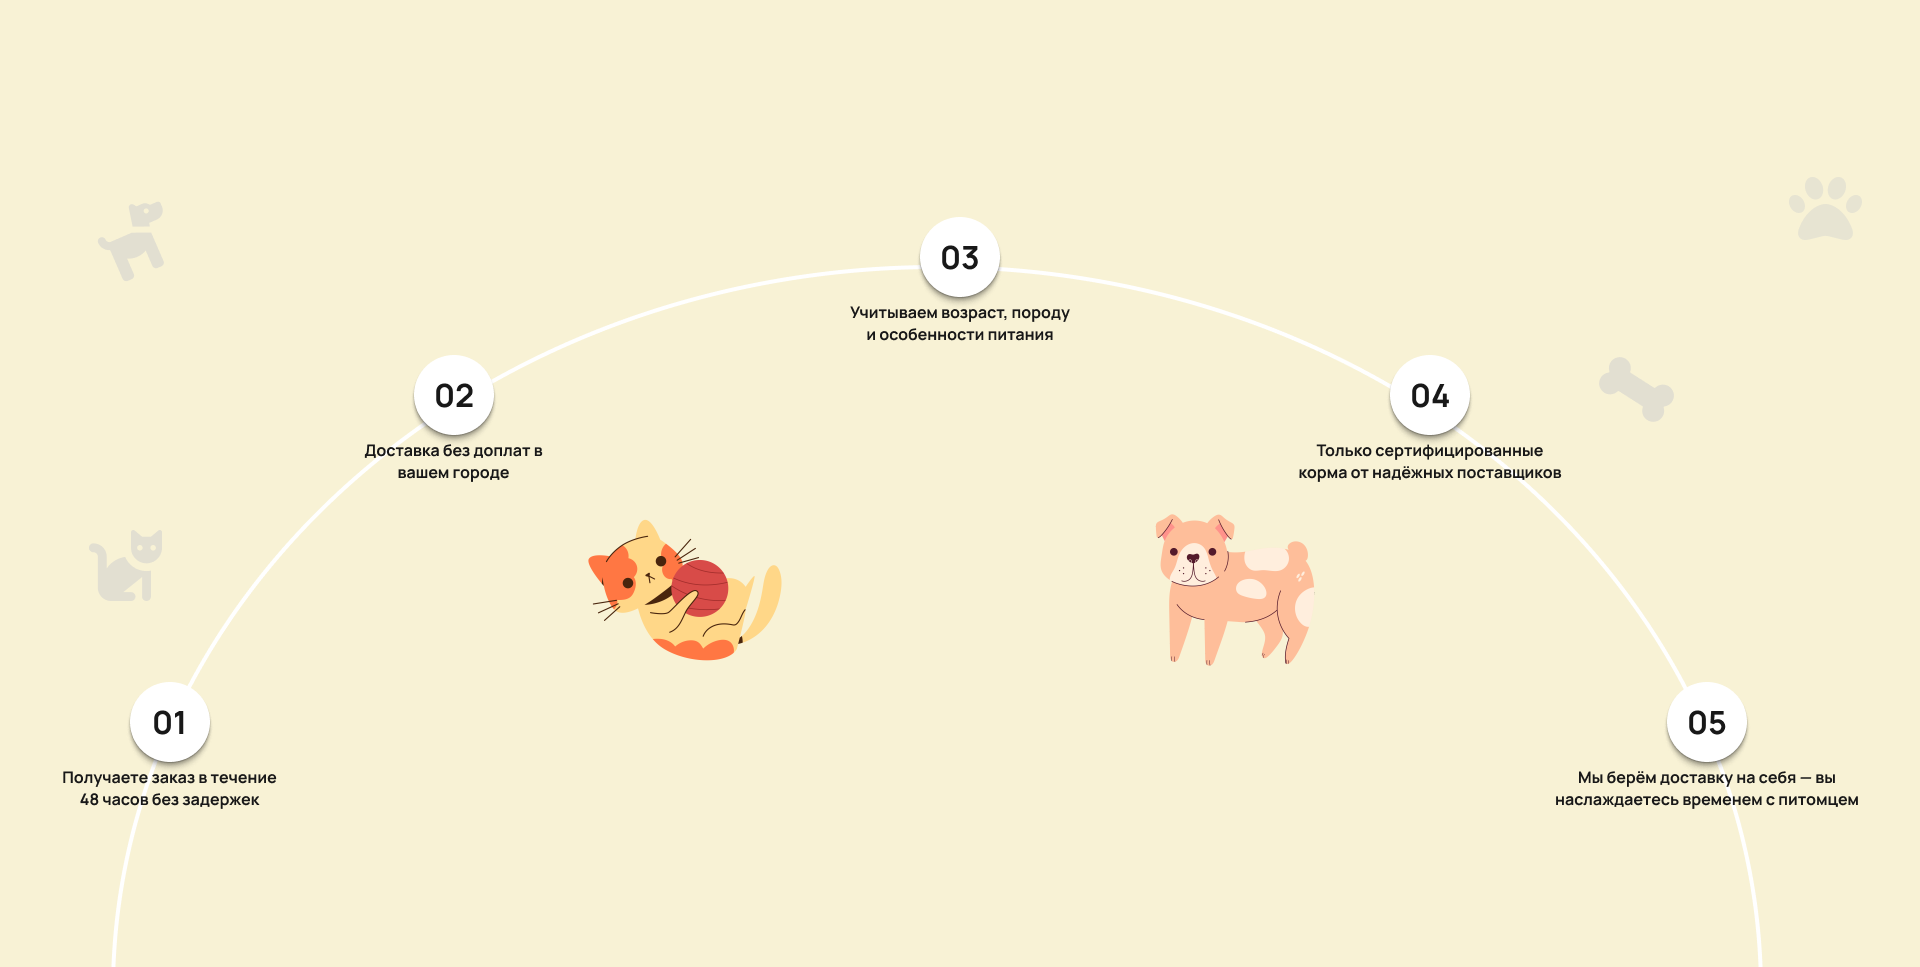
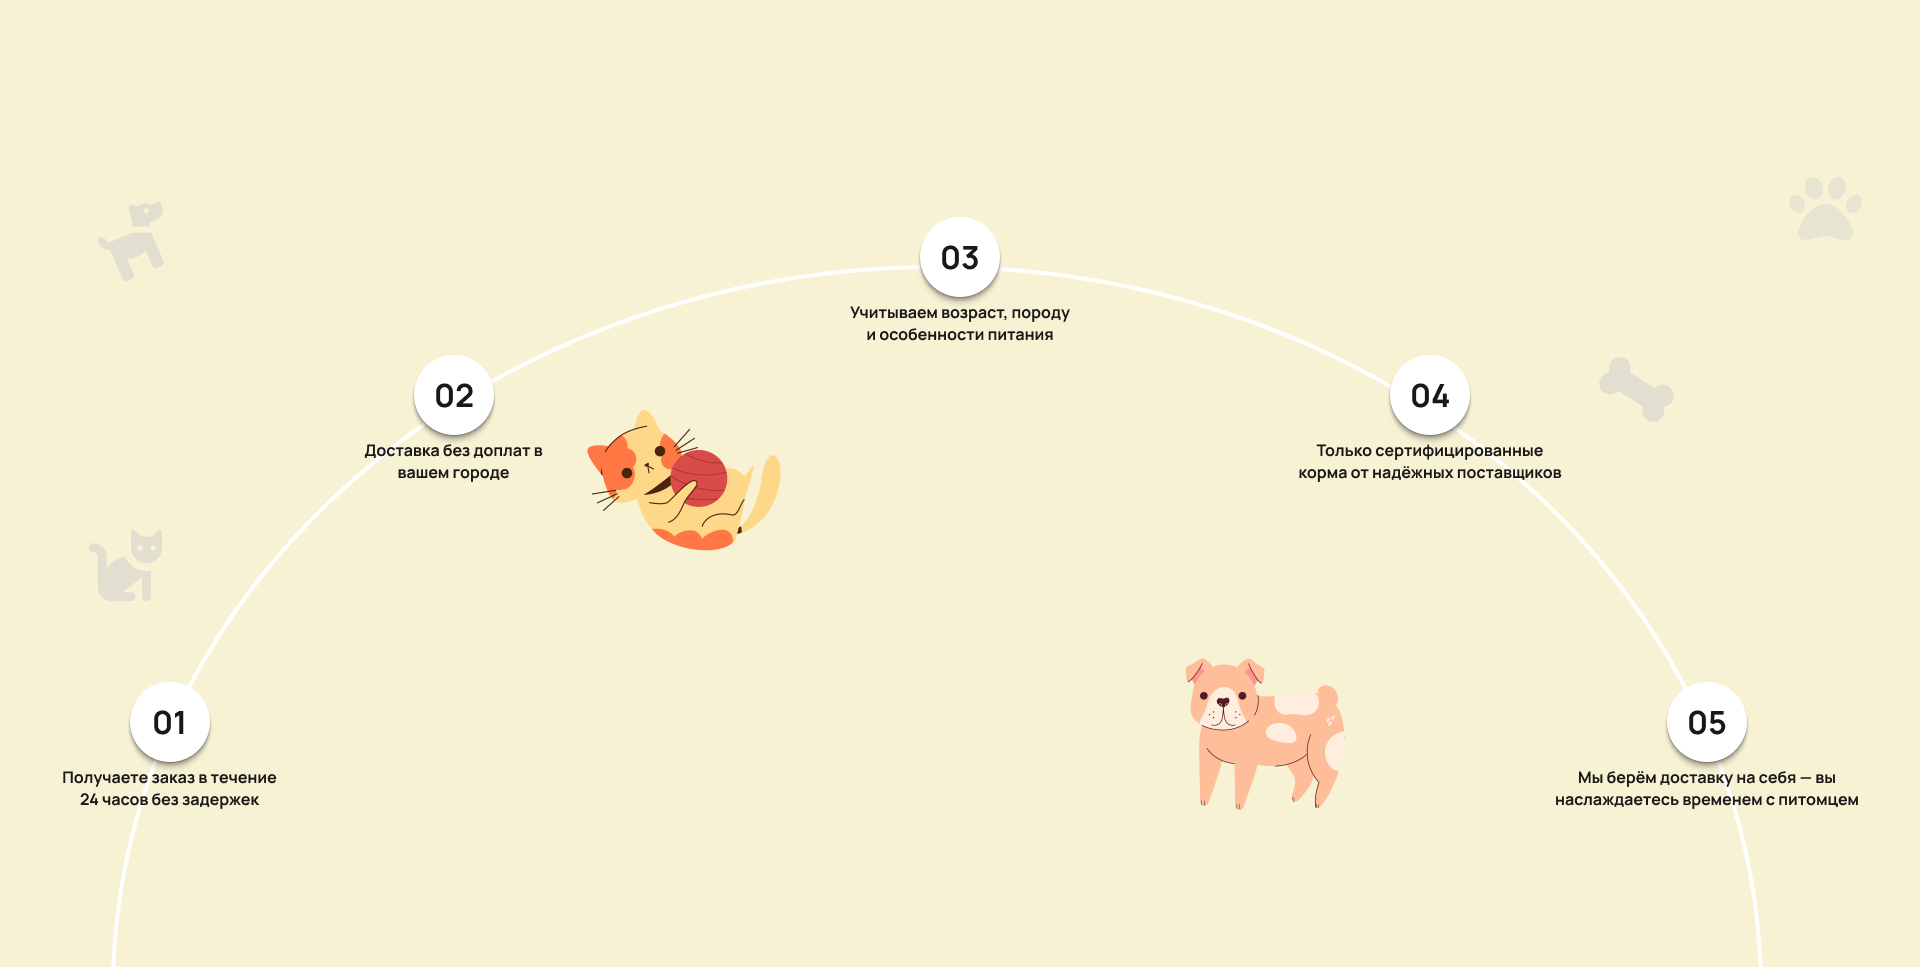
feat

Changed region(s): [[0.5938, 0.5274, 0.7188, 0.8376], [0.2812, 0.4343, 0.4062, 0.6825], [0.0312, 0.8066, 0.125, 0.8376]]

diff --git a/frontend/components/Header.vue b/frontend/components/Header.vue
@@ -2,6 +2,7 @@
     const { currentlyMobile } = mobileState();
 
     const isScrolled = ref(false);
+    const isMenuOpen = ref(false);
 
     const handleScroll = () => {
         isScrolled.value = window.scrollY > 1
@@ -15,6 +16,10 @@
     onUnmounted(() => {
         window.removeEventListener('scroll', handleScroll)
     })
+
+    watch(isMenuOpen, (val) => {
+        document.body.style.overflow = val ? 'hidden' : '';
+    });
 </script>
 
 <template>
@@ -29,7 +34,7 @@
                 v-if="!currentlyMobile">
                     <ul>
                         <li><a href="/assortment">Ассортимент</a></li>
-                        <li><a href="/mission">Доставка</a></li>
+                        <li><a href="/mission">Наша миссия</a></li>
                         <li><a href="/#reviews">Отзывы</a></li>
                         <li><a href="/about">О нас</a></li>
                         <li><a href="/news">Новости</a></li>
@@ -55,7 +60,8 @@
                     </Button>
                 </div>
                 <div class="header__burger-button"
-                v-if="currentlyMobile">
+                v-if="currentlyMobile"
+                @click="isMenuOpen = true">
                     <svg width="41" height="61" viewBox="0 0 41 61" fill="none" xmlns="http://www.w3.org/2000/svg">
                         <path d="M35.7898 16.3745C34.8893 16.3746 33.8713 16.9326 33.4272 17.7255C33.1923 18.1452 32.8135 18.5581 32.3368 18.5581L8.66332 18.557C8.18655 18.557 7.8078 18.1442 7.57285 17.7244C7.12882 16.9315 6.11078 16.3735 5.21029 16.3735C4.01833 16.3735 3.05212 17.3511 3.05213 18.557C3.05215 19.7629 4.01839 20.7405 5.21028 20.7405C4.01839 20.7405 3.05211 21.6077 3.05213 22.8529C3.05214 24.0981 4.01838 25.1075 5.21028 25.1076C6.11078 25.1076 7.12885 24.5313 7.57285 23.7126C7.80779 23.2792 8.18654 22.8529 8.66332 22.8529L32.3368 22.854C32.8135 22.854 33.1923 23.2803 33.4272 23.7137C33.8712 24.5324 34.8893 25.1087 35.7898 25.1087C36.9817 25.1086 37.9479 24.0992 37.9479 22.854C37.948 21.6088 36.9817 20.7416 35.7898 20.7416C36.9817 20.7416 37.9479 19.764 37.9479 18.5581C37.948 17.3522 36.9817 16.3746 35.7898 16.3745Z" fill="white"/>
                         <path d="M35.7897 26.1236C34.8892 26.1236 33.8712 26.6817 33.4272 27.4745C33.1922 27.8943 32.8135 28.3071 32.3367 28.3071L8.66328 28.3061C8.18651 28.3061 7.80776 27.8932 7.57281 27.4735C7.12878 26.6806 6.11074 26.1225 5.21025 26.1225C4.01829 26.1226 3.05208 27.1002 3.05209 28.3061C3.05211 29.512 4.01835 30.4896 5.21024 30.4896C4.01835 30.4896 3.05207 31.4672 3.05209 32.6731C3.05211 33.879 4.01834 34.8566 5.21024 34.8567C6.11074 34.8567 7.12881 34.2986 7.57281 33.5058C7.80775 33.086 8.1865 32.6731 8.66328 32.6731L32.3367 32.6742C32.8135 32.6742 33.1923 33.0871 33.4272 33.5068C33.8712 34.2997 34.8893 34.8577 35.7898 34.8577C36.9817 34.8577 37.9479 33.8801 37.9479 32.6742C37.9479 31.4683 36.9816 30.4906 35.7898 30.4907C36.9816 30.4906 37.9479 29.513 37.9479 28.3071C37.9479 27.1012 36.9817 26.1236 35.7897 26.1236Z" fill="white"/>
@@ -64,7 +70,30 @@
                 </div>
             </div>
         </div>
+
     </header>
+
+    <Teleport to="body">
+        <Transition name="mobile-menu">
+            <div class="mobile-menu" v-if="isMenuOpen">
+                <button class="mobile-menu__close" @click="isMenuOpen = false">
+                    <svg width="29" height="29" viewBox="0 0 29 29" fill="none" xmlns="http://www.w3.org/2000/svg">
+                        <path d="M22.0077 0.793798C21.3857 1.4232 21.0727 2.52025 21.3203 3.37832C21.4515 3.83251 21.4785 4.38244 21.1492 4.71567L4.79788 21.2612C4.46859 21.5944 3.91838 21.5739 3.46266 21.4482C2.60171 21.2108 1.50845 21.5368 0.886499 22.1662C0.0632841 22.9993 0.0793499 24.35 0.922384 25.183C1.76543 26.0161 3.1162 26.0161 3.93942 25.183C3.1162 26.0161 3.13226 27.3668 3.9753 28.1999C4.81834 29.0329 6.16911 29.0329 6.99233 28.1999C7.6143 27.5705 7.92731 26.4734 7.67971 25.6154C7.54855 25.1612 7.52151 24.6112 7.85081 24.278L24.2021 7.7325C24.5314 7.39926 25.0817 7.41975 25.5374 7.54551C26.3983 7.78288 27.4916 7.45685 28.1135 6.82744C28.9367 5.99436 28.9206 4.64369 28.0776 3.81062C27.2346 2.97755 25.8838 2.97755 25.0606 3.81062C25.8838 2.97755 25.8677 1.62687 25.0247 0.793798C24.1817 -0.0392682 22.8309 -0.0392682 22.0077 0.793798Z" fill="white"/>
+                        <path d="M28.2001 22.0077C27.5707 21.3857 26.4736 21.0727 25.6156 21.3203C25.1614 21.4515 24.6115 21.4785 24.2782 21.1492L7.73272 4.79793C7.39949 4.46864 7.41998 3.91843 7.54574 3.46271C7.78311 2.60176 7.45707 1.5085 6.82769 0.88655C5.99456 0.0633376 4.64392 0.0794065 3.81087 0.922442C2.97782 1.76549 2.97782 3.11626 3.81087 3.93948C2.97782 3.11626 1.62709 3.13232 0.79404 3.97537C-0.0390098 4.81841 -0.0390098 6.16918 0.79404 6.9924C1.42342 7.61436 2.52052 7.92737 3.37855 7.67977C3.83272 7.5486 4.38266 7.52157 4.7159 7.85086L21.2614 24.2022C21.5946 24.5315 21.5741 25.0817 21.4484 25.5374C21.211 26.3983 21.5371 27.4916 22.1665 28.1135C22.9995 28.9367 24.3502 28.9207 25.1833 28.0776C26.0163 27.2346 26.0163 25.8838 25.1833 25.0606C26.0163 25.8838 27.367 25.8677 28.2001 25.0247C29.0332 24.1817 29.0332 22.8309 28.2001 22.0077Z" fill="white"/>
+                    </svg>
+                </button>
+                <nav class="mobile-menu__nav">
+                    <ul>
+                        <li><a href="/assortment" @click="isMenuOpen = false">Ассортимент</a></li>
+                        <li><a href="/delivery" @click="isMenuOpen = false">Доставка</a></li>
+                        <li><a href="/#reviews" @click="isMenuOpen = false">Отзывы</a></li>
+                        <li><a href="/about" @click="isMenuOpen = false">О нас</a></li>
+                        <li><a href="/news" @click="isMenuOpen = false">Новости</a></li>
+                    </ul>
+                </nav>
+            </div>
+        </Transition>
+    </Teleport>
 </template>
 
 <style lang="scss">
@@ -140,10 +169,69 @@
                 max-height: 5.0833rem;
                 aspect-ratio: 3.4167 / 5.0833;
                 height: 100%;
+                cursor: pointer;
                 svg {
                     @include wh-100;
                 }
             }
         }
+    }
+
+    .mobile-menu {
+        position: fixed;
+        inset: 0;
+        z-index: 100;
+        background-color: #F5F0C4;
+        display: flex;
+        flex-direction: column;
+        align-items: center;
+        padding-top: 6rem;
+
+        &__close {
+            position: absolute;
+            top: 1.5rem;
+            right: 1.25rem;
+            background: none;
+            border: none;
+            cursor: pointer;
+            padding: 0.5rem;
+            svg {
+                width: 1.8125rem;
+                height: 1.8125rem;
+                path {
+                    fill: #1E1E1E;
+                }
+            }
+        }
+
+        &__nav {
+            ul {
+                list-style: none;
+                padding: 0;
+                margin: 0;
+                display: flex;
+                flex-direction: column;
+                align-items: center;
+                gap: 2rem;
+                li {
+                    a {
+                        font-size: 1.5rem;
+                        @include manrope;
+                        font-weight: 400;
+                        color: #1E1E1E;
+                        text-decoration: none;
+                    }
+                }
+            }
+        }
+    }
+
+    .mobile-menu-enter-active,
+    .mobile-menu-leave-active {
+        transition: opacity 0.3s ease;
+    }
+    .mobile-menu-enter-from,
+    .mobile-menu-leave-to {
+        opacity: 0;
     }
 </style>

diff --git a/frontend/pages/news.vue b/frontend/pages/news.vue
@@ -17,12 +17,24 @@
     <section>
         <div class="news-section">
             <div class="news-section__container">
-                <NewsCard image="/images/news/news_1.jpg"></NewsCard>
-                <NewsCard image="/images/news/news_2.jpg" tag="useful"></NewsCard>
-                <NewsCard image="/images/news/news_3.jpg" tag="top"></NewsCard>
-                <NewsCard image="/images/news/news_4.jpg" tag="useful"></NewsCard>
-                <NewsCard image="/images/news/news_5.jpg" tag="useful"></NewsCard>
-                <NewsCard image="/images/news/news_6.png" tag="top"></NewsCard>
+                <NewsCard image="/images/news/news_1.jpg"
+                title="Наши клиенты делятся впечатлениями о доставке и корме"
+                desc="Покупатели рассказали о своём опыте заказа: от быстрой доставки до качества корма, который с удовольствием едят их питомцы. В коротком интервью они поделились честным мнением, отметив удобство сервиса, свежесть продукции и заметные улучшения в самочувствии животных."></NewsCard>
+                <NewsCard image="/images/news/news_2.jpg" tag="useful"
+                title="Учёные выяснили, какая игрушка лучше всего подходит маленьким породам собак"
+                desc="Недавнее исследование показало, что небольшие собаки предпочитают мягкие и лёгкие игрушки, которые удобно носить и грызть. Эксперты отмечают, что правильно подобранная игрушка не только развлекает питомца, но и способствует развитию, снижает стресс и укрепляет здоровье зубов."></NewsCard>
+                <NewsCard image="/images/news/news_3.jpg" tag="top"
+                title="Ветеринары назвали топ-5 ошибок в кормлении питомцев"
+                desc="Специалисты выделили самые распространённые ошибки, которые могут негативно влиять на здоровье животных. Среди них — неправильный выбор корма, перекармливание и несоблюдение режима питания. Эксперты подчёркивают: сбалансированный рацион и качественный корм играют ключевую роль в самочувствии и активности питомца."></NewsCard>
+                <NewsCard image="/images/news/news_4.jpg" tag="useful"
+                title="Почему питомец отказывается от корма: мнение экспертов"
+                desc="Иногда даже любимый корм может перестать интересовать питомца. Эксперты объясняют: причиной могут быть стресс, смена рациона, проблемы со здоровьем или низкое качество продукта. Важно вовремя обратить внимание на поведение животного и подобрать подходящее питание, чтобы сохранить его аппетит и здоровье."></NewsCard>
+                <NewsCard image="/images/news/news_5.jpg" tag="useful"
+                title="Сравнение: эконом-корм vs премиум — есть ли разница?"
+                desc="Эксперты сравнили состав и влияние разных категорий кормов на здоровье питомцев. Результаты показали, что премиальные корма содержат больше натуральных ингредиентов и лучше усваиваются, в то время как эконом-варианты часто включают искусственные добавки. Выбор питания напрямую влияет на самочувствие, внешний вид и активность животного."></NewsCard>
+                <NewsCard image="/images/news/news_6.png" tag="top"
+                title="5 признаков того, что корм не подходит вашему питомцу"
+                desc="Иногда неподходящий корм может незаметно влиять на состояние животного. Эксперты выделяют основные признаки: снижение активности, проблемы с пищеварением, тусклая шерсть, потеря аппетита и частые аллергические реакции. При появлении таких симптомов важно пересмотреть рацион и выбрать более качественное и сбалансированное питание."></NewsCard>
             </div>
         </div>
     </section>

diff --git a/frontend/components/NewsCard.vue b/frontend/components/NewsCard.vue
@@ -28,10 +28,10 @@
         </div>
         <div class="news-card__title-block">
             <div class="news-card__title-block__title">
-                Наши клиенты делятся впечатлениями о доставке и корме
+                {{ title }}
             </div>
             <div class="news-card__title-block__desc">
-                Покупатели рассказали о своём опыте заказа: от быстрой доставки до качества корма, который с удовольствием едят их питомцы. В коротком интервью они поделились честным мнением, отметив удобство сервиса, свежесть продукции и заметные улучшения в самочувствии животных.
+                {{ desc }}
             </div>
         </div>
     </div>